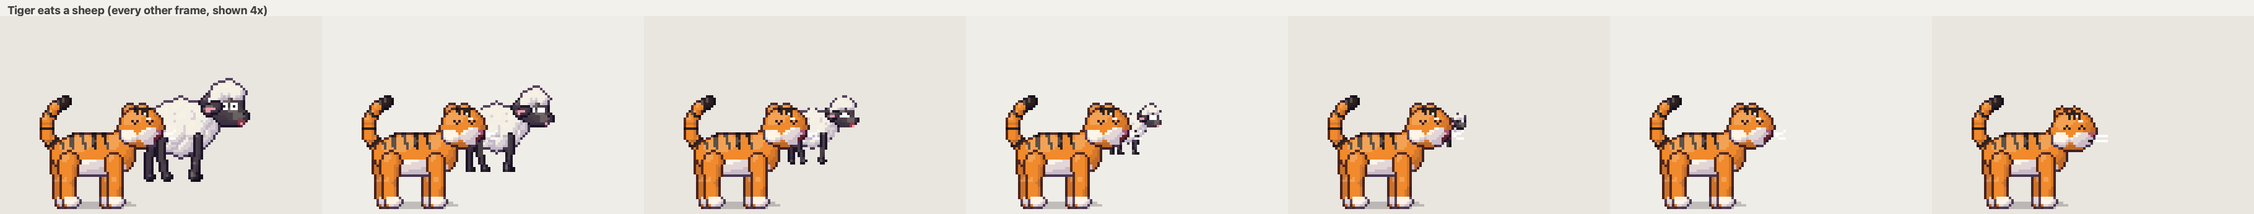
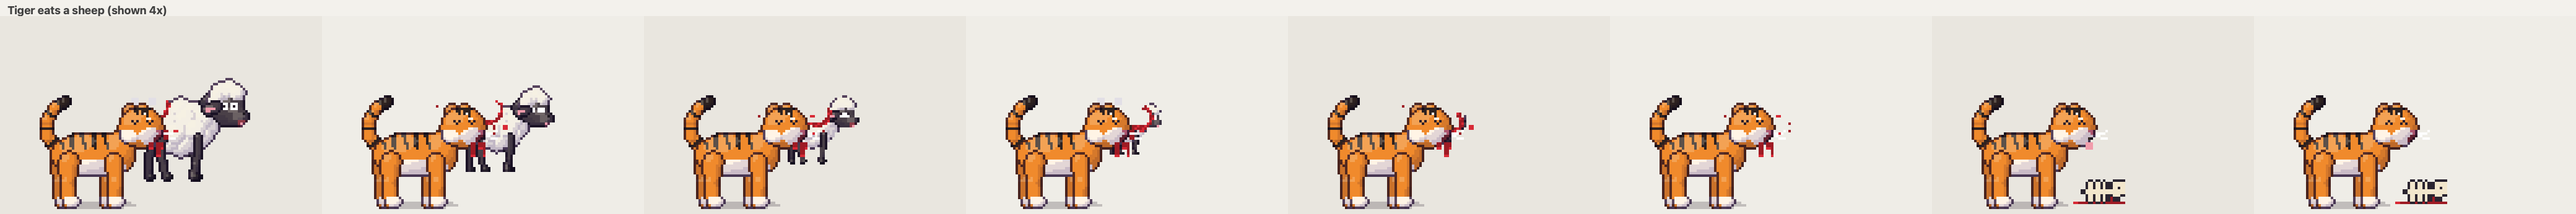
Make the tiger's meal gorier: bites, spatter, drips and leftover bones

diff --git a/Sources/SheepCore/Finale.swift b/Sources/SheepCore/Finale.swift
@@ -143,6 +143,7 @@ extension PetArt {
         case let .poof(f): drawPoof(&c, frame: f)
         case let .beam(f): drawBeam(&c, frame: f, front: true)
         case let .shrink(f) where f >= 9: drawSparkle(&c, frame: f - 9)
+        case let .gulp(f): drawSpatter(&c, frame: f)
         default: break
         }
     }
@@ -173,7 +174,22 @@ extension PetArt {
         case let .shrink(f):
             c.shrink(scale: max(1 - Double(f) / 11, 0), aroundX: Double(width) / 2, bottom: Double(groundRow))
         case let .gulp(f):
-            c.shrink(scale: max(1 - Double(f) / 12, 0.08), aroundX: gulpAnchor.x, bottom: gulpAnchor.y)
+            let s = max(1 - Double(f) / 12, 0.08)
+            c.shrink(scale: s, aroundX: gulpAnchor.x, bottom: gulpAnchor.y)
+            // Bites taken out of the back, more each chomp, with raw red edges.
+            let bites = (0..<min(1 + f / 2, 4)).map { k in
+                (x: gulpAnchor.x + Double(4 + k * 7) * s, y: gulpAnchor.y - 10 * s, r: 2 + 3 * s)
+            }
+            let bitten = { (x: Int, y: Int, pad: Double) in
+                bites.contains { hypot(Double(x) + 0.5 - $0.x, Double(y) + 0.5 - $0.y) < $0.r + pad }
+            }
+            c.clearSolid { x, y in bitten(x, y, 0) }
+            let blood = ColorCanvas.pack(paletteRGB(38)), bright = ColorCanvas.pack(paletteRGB(39))
+            let before = c
+            c.recolorSolid { x, y in
+                guard bitten(x, y, 1.6) else { return before[x, y] }
+                return (x + y) % 3 == 0 ? bright : blood
+            }
         default:
             break
         }
@@ -346,6 +362,21 @@ extension PetArt {
         }
         for (x, y, _) in fill { for dy in -1...1 { for dx in -1...1 { c.blend(x + dx, y + dy, paletteRGB(outline)) } } }
         for (x, y, i) in fill { c.blend(x, y, paletteRGB(i)) }
+    }
+
+    /// Red droplets and tufts of fur flying off the back end in the tiger's mouth.
+    private static func drawSpatter(_ c: inout PixelCanvas, frame f: Int) {
+        let mouth = (x: 9.0, y: 34.0) // absolute layer coordinates of `gulpAnchor`
+        for k in 0..<7 {
+            let t = Double((f + k * 2) % 6) + 0.5
+            let vx = (Double(k % 4) - 1.5) * 1.1, vy = -2.2 - Double(k % 3) * 0.5
+            let x = Int(mouth.x + vx * t), y = Int(mouth.y + vy * t + 0.3 * t * t)
+            if k % 3 == 2 {
+                c.pixelsFill(x: x, y: y, size: 2, 29) // a tuft of fur
+            } else {
+                c.pixelsSet(x, y, k % 2 == 0 ? 38 : 39)
+            }
+        }
     }
 
     private static func drawPoof(_ c: inout PixelCanvas, frame f: Int) {

diff --git a/Sources/SheepCore/Gear.swift b/Sources/SheepCore/Gear.swift
@@ -11,7 +11,7 @@ extension PetArt {
             drawFlameTrail(&c, frame: frame)
         case let .jetpack(frame):
             drawJetpack(&c, frame: frame)
-        case .none, .impact, .countdown, .hearts, .butterfly, .scuffle, .grip, .alert, .dirt:
+        case .none, .impact, .countdown, .hearts, .butterfly, .scuffle, .grip, .alert, .dirt, .gore:
             break
         }
     }
@@ -26,8 +26,45 @@ extension PetArt {
         case let .scuffle(f): drawScuffle(&c, frame: f)
         case .alert: drawAlert(&c)
         case let .dirt(f): drawDirt(&c, frame: f)
+        case let .gore(f): drawGore(&c, frame: f)
         default: break
         }
+    }
+
+    /// Red drips off the tiger's chin while it chomps; afterwards the leftovers: a splat and
+    /// a little skeleton in front of its paws.
+    private static func drawGore(_ c: inout PixelCanvas, frame f: Int) {
+        if f < gulpFrames.count {
+            for (i, x) in [32, 34, 35].enumerated() {
+                let len = 1 + (f + i * 2) % 4
+                c.fill(x: x, y: 15, width: 1, height: len, 38)
+                c[x, 15 + len] = 39
+            }
+            // Flecks flying off the bites.
+            for k in 0..<3 {
+                let t = (f + k * 3) % 6
+                c[36 + t, 11 - t / 2 + k] = k == 1 ? 39 : 38
+            }
+            return
+        }
+        // A splat on the ground with the bones lying in it.
+        c.fill(x: 31, y: ground, width: 13, height: 1, 38)
+        c.fill(x: 33, y: ground - 1, width: 9, height: 1, 38)
+        c[30, ground] = 39
+        c[44, ground] = 39
+        // Spine, ribs and a little round skull, outlined so they read against the splat.
+        var bones = (33...40).map { ($0, ground - 3) }
+        for x in [34, 36, 38] { bones += (ground - 5...ground - 1).map { (x, $0) } }
+        for y in ground - 5...ground - 3 { bones += (41...43).map { ($0, y) } }
+        bones += [(41, ground - 2), (42, ground - 2)]
+        let bone = Set(bones.map { [$0.0, $0.1] })
+        for (x, y) in bones { for (dx, dy) in [(-1, 0), (1, 0), (0, -1), (0, 1)] where !bone.contains([x + dx, y + dy]) {
+            c[x + dx, y + dy] = 1
+        } }
+        c.plot(bones, 24)
+        c[42, ground - 4] = 1
+        // Licking its lips: a pink tongue on alternate frames.
+        if f % 2 == 1 { c.fill(x: 33, y: 15, width: 2, height: 2, 6) }
     }
 
     static func heart(_ c: inout PixelCanvas, x: Int, y: Int, _ color: UInt8 = 6) {

diff --git a/Sources/SheepCore/PetArt.swift b/Sources/SheepCore/PetArt.swift
@@ -112,6 +112,8 @@ public struct Pose: Hashable, Sendable {
         case scuffle(Int)
         case grip
         case alert
+        /// A tiger's meal: dripping chin while it chomps, then bones and a splat on the ground.
+        case gore(Int)
     }
 
     public init() {}
@@ -167,6 +169,8 @@ public enum PetArt {
         (0x8A, 0x5A, 0x36, 255), // 35 dirt
         (0x5E, 0x3B, 0x22, 255), // 36 dark dirt
         (0xFF, 0xE0, 0x5A, 170), // 37 tractor beam edge (translucent)
+        (0x9E, 0x1B, 0x24, 255), // 38 blood
+        (0xD8, 0x2A, 0x36, 255), // 39 bright blood
     ]
 
     /// Fully opaque palette indices (used for hit testing; the shadow doesn't count).
@@ -257,8 +261,19 @@ public enum PetArt {
         case .menuNap: return sleepFrames.map { var p = $0; p.shadow = false; return p }
         case .ride: return sitFrames.map { var p = $0; p.shadow = false; p.eyes = $0.earUp ? .happy : .open; return p }
         case .hunt: return runFrames.map { var p = $0; p.mouthOpen = true; p.earUp = true; p.headDY += 1; return p }
-        case .devour: return (0..<4).map { i in make { $0.mouthOpen = i % 2 == 0; $0.eyes = i == 3 ? .happy : .closed; $0.headDY = i % 2; $0.tailDY = -1 } }
+        case .devour: return devourFrames
         case .eaten: return gulpFrames
+        }
+    }
+
+    /// Chomping (as long as the gulp), then licking its lips over a little pile of bones.
+    static let devourFrames: [Pose] = (0..<20).map { f in
+        make {
+            $0.mouthOpen = f % 2 == 0
+            $0.eyes = f < gulpFrames.count ? .closed : .happy
+            $0.headDY = f < gulpFrames.count ? f % 2 : 0
+            $0.tailDY = -1
+            $0.gear = .gore(f)
         }
     }
 
@@ -284,7 +299,7 @@ public enum PetArt {
         let fps = behavior == .finale ? finaleFramesPerSecond(finale) : framesPerSecond(behavior)
         let index = Int(max(time, 0) * fps)
         // Countdowns and finales play once and hold their last frame.
-        let once = behavior == .finale || behavior == .countdown || behavior == .eaten
+        let once = behavior == .finale || behavior == .countdown || behavior == .eaten || behavior == .devour
         var pose = all[once ? min(index, all.count - 1) : index % all.count]
         if pose.eyes == .open && isBlinking(time: time, phase: phase) { pose.eyes = .closed }
         return pose

diff --git a/Sources/ArtLab/main.swift b/Sources/ArtLab/main.swift
@@ -281,18 +281,19 @@ do {
 // A tiger gulping down a sheep: both sprites placed the way the app places them, 4x.
 do {
     let tigerFrames = PetArt.frames(for: .devour, animal: .tiger), gulp = PetArt.frames(for: .eaten, animal: .sheep)
-    let z = 4.0, cellW = 130.0 * z, cellH = Double(PetArt.height) * z, shown = [0, 2, 4, 6, 8, 10, 11]
+    let z = 4.0, cellW = 130.0 * z, cellH = Double(PetArt.height) * z, shown = [0, 2, 4, 6, 8, 10, 13, 16]
     let w = Int(cellW * Double(shown.count)), h = Int(labelHeight + cellH)
     let ctx = makeContext(width: w, height: h)
     ctx.setFillColor(VectorStyle.cg(background))
     ctx.fill(CGRect(x: 0, y: 0, width: w, height: h))
-    drawText("Tiger eats a sheep (every other frame, shown 4x)", at: CGPoint(x: 12, y: 6), size: 18, in: ctx, bold: true)
+    drawText("Tiger eats a sheep (shown 4x)", at: CGPoint(x: 12, y: 6), size: 18, in: ctx, bold: true)
     for (c, f) in shown.enumerated() {
         let ox = Double(c) * cellW, oy = labelHeight
         ctx.setFillColor(VectorStyle.cg(c % 2 == 0 ? RGB(0xE9E6DF) : RGB(0xEFEDE7)))
         ctx.fill(CGRect(x: ox, y: oy, width: cellW, height: cellH))
         // Same offsets as `Pet.beEaten`: 36 right of the tiger and 10 up.
-        for (canvas, dx, dy) in [(PetArt.render(gulp[f], animal: .sheep), 36, -10), (PetArt.render(tigerFrames[f % tigerFrames.count], animal: .tiger), 0, 0)] {
+        let prey = f < gulp.count ? [(PetArt.render(gulp[f], animal: .sheep), 36, -10)] : []
+        for (canvas, dx, dy) in prey + [(PetArt.render(tigerFrames[f], animal: .tiger), 0, 0)] {
             for py in 0..<canvas.height { for px in 0..<canvas.width {
                 let v = canvas[px, py]
                 guard v & 0xFF != 0 else { continue }

diff --git a/Sources/SheepCore/Pet.swift b/Sources/SheepCore/Pet.swift
@@ -756,7 +756,7 @@ public struct Pet: Sendable {
         case .menuNap: return 8...20
         case .hang: return 2...5
         case .hunt: return 6...9
-        case .devour: return 2.4...2.4
+        case .devour: return 4...4
         case .eaten: return 8...14
         case .fall, .dragged, .parachute, .meteor, .jetpack, .countdown, .finale, .climb: return .infinity ... .infinity
         }
